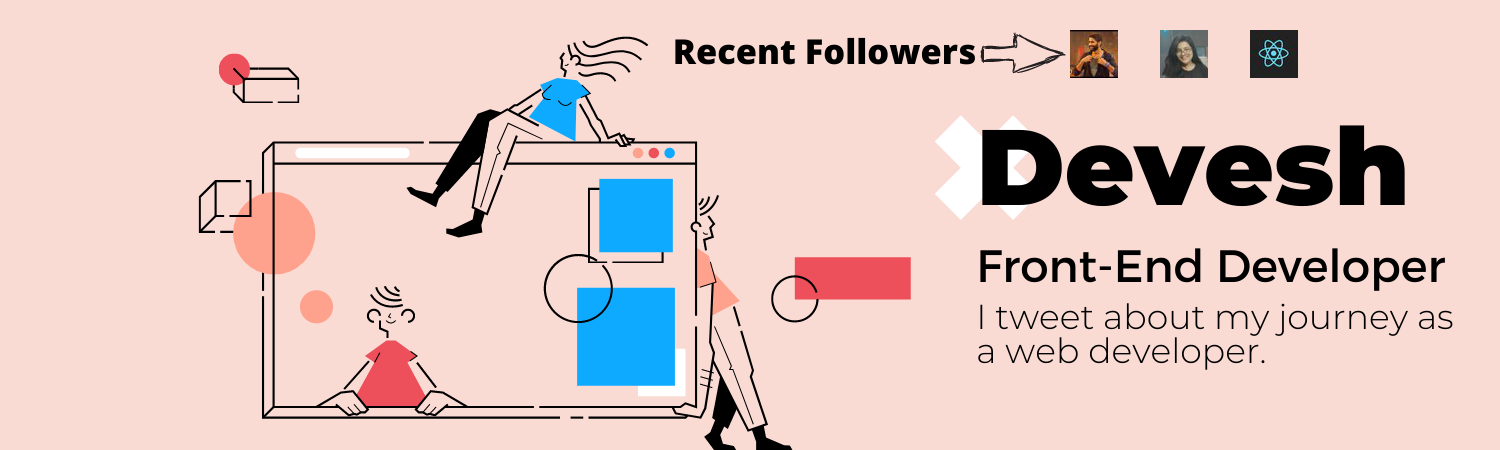
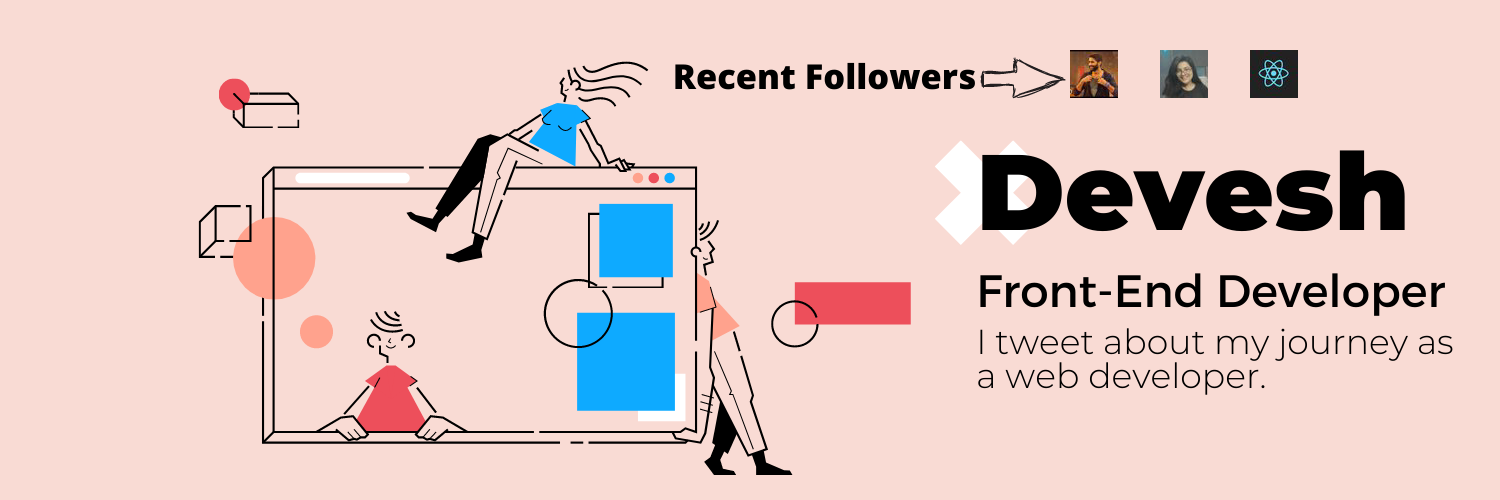
Beta

diff --git a/index.js b/index.js
@@ -86,9 +86,9 @@ async function drawImage(back, img1, img2, img3){
   Promise.all(jimps).then(data => {
     return Promise.all(jimps)
   }).then(data => {
-    data[0].composite(data[1],1070,30);
-    data[0].composite(data[2],1160,30);
-    data[0].composite(data[3],1250,30);
+    data[0].composite(data[1],1070,50);
+    data[0].composite(data[2],1160,50);
+    data[0].composite(data[3],1250,50);
 
     data[0].write('test.png', function(){
       console.log("done");
